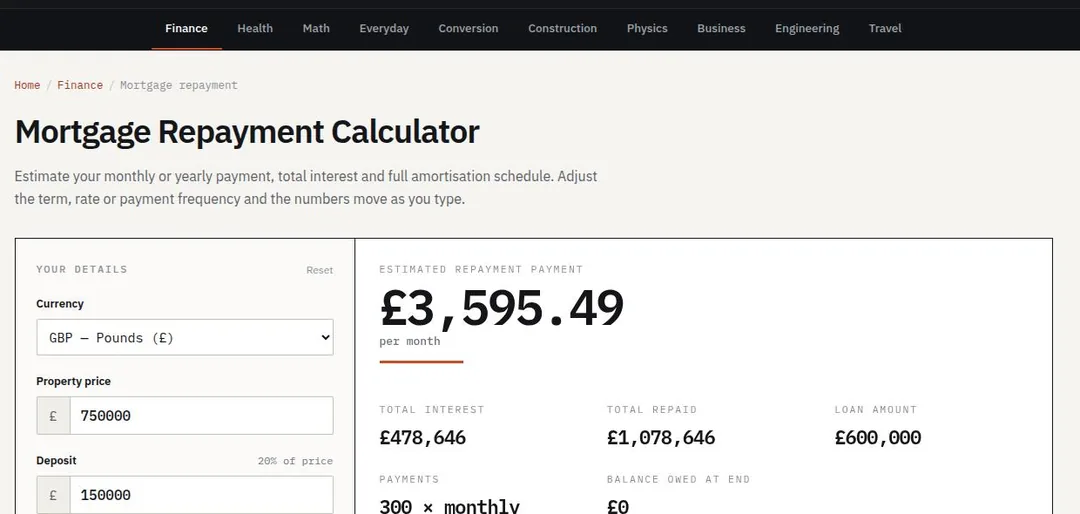
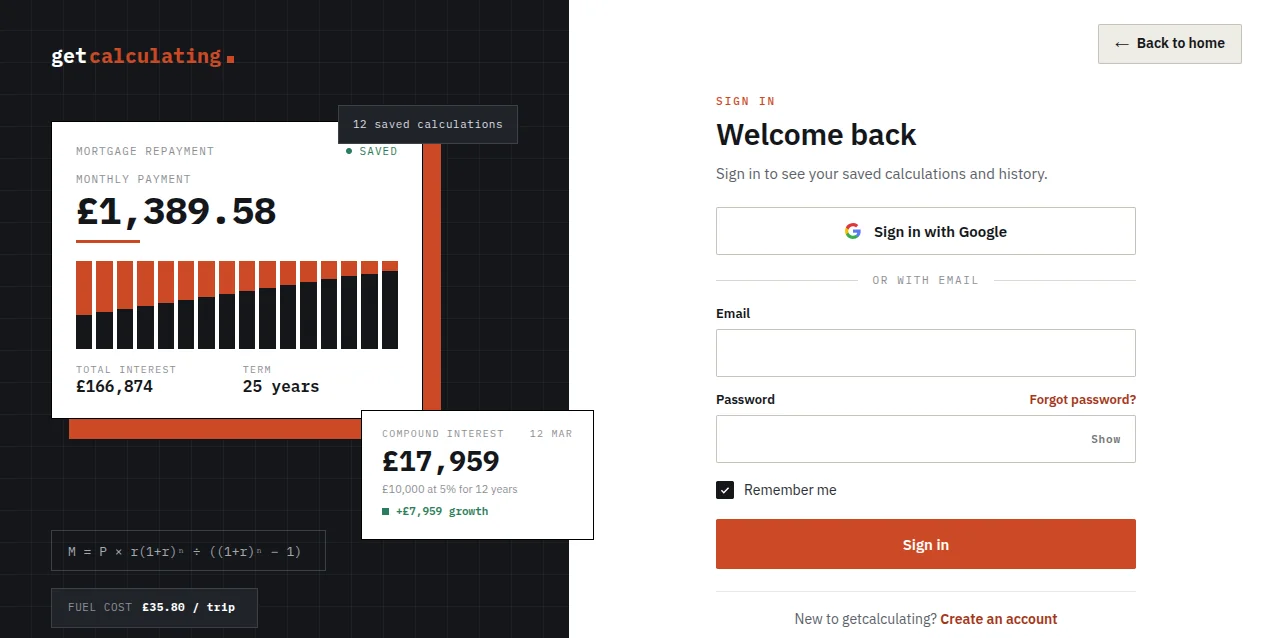
feat:update photo

diff --git a/index.html b/index.html
@@ -336,8 +336,8 @@
     <article class="feat reveal">
       <div class="feat__media">
         <a class="shot" href="https://getcalculating.com/" target="_blank" rel="noopener" aria-label="Open getcalculating.com">
-          <img src="assets/projects-images/getcalculating.webp" width="1080" height="514"
-               alt="GetCalculating's mortgage repayment calculator showing the monthly payment, total interest and loan amount"
+          <img src="assets/projects-images/getcalculating.webp" width="1273" height="638"
+               alt="GetCalculating's sign-in page, beside a preview of a saved mortgage repayment and a compound interest result"
                loading="lazy" decoding="async">
         </a>
       </div>
